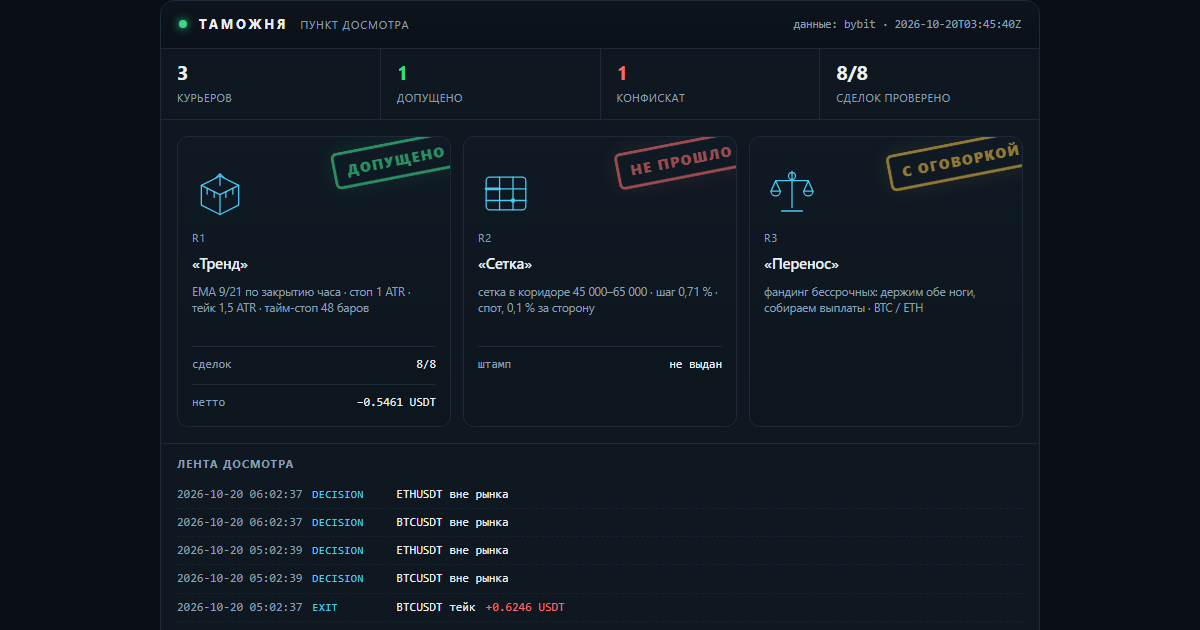
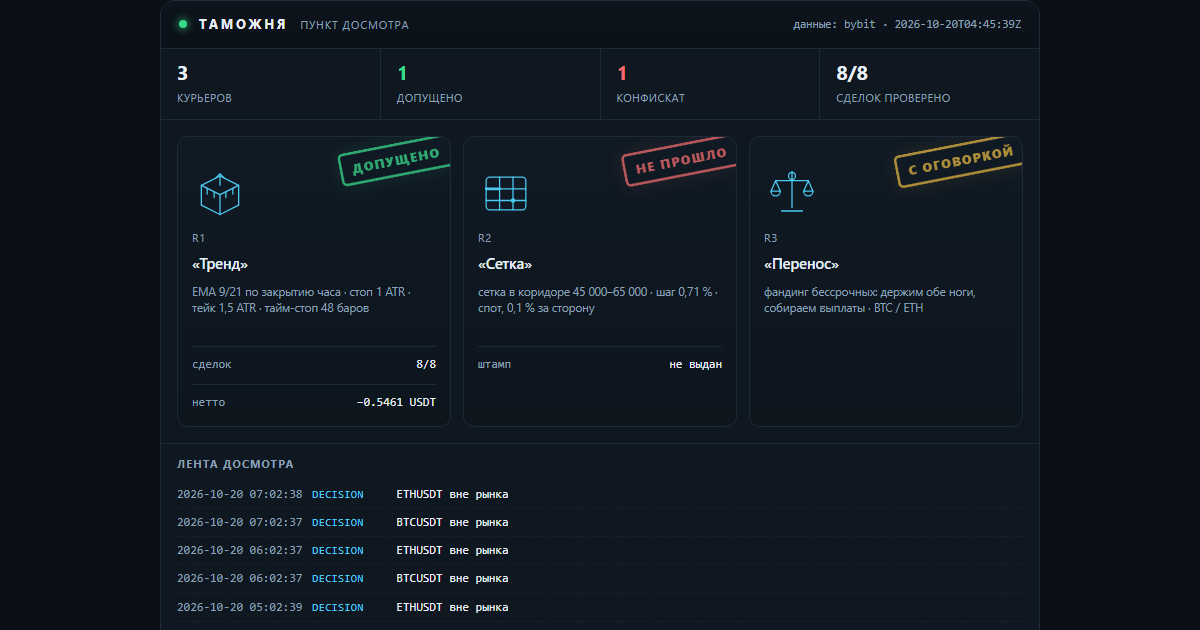
lab: таможня — свежие числа досмотра

diff --git a/docs/customs.html b/docs/customs.html
@@ -16,7 +16,7 @@
   <h1><a href="index.html">Gramwright Lab</a></h1>
   <p>Журнал проверки торговых гипотез: что проверяли, что вышло по факту, сколько съели издержки. Числа берутся из журнала стенда. Не инвестиционная рекомендация.</p>
 </header>
-<h1>Таможня</h1><p class="intro">Пункт досмотра заявленных результатов. Стратегии приезжают с грузом обещаний, и каждая проходит проверку по публичным данным биржи: цены существуют, комиссии по тарифу, нетто сходится. Что прошло — получает штамп. Что не прошло — в конфискат, с причиной. Штамп означает «записи подлинные», а не «стратегия прибыльна».</p><p><img src="img/customs.png" alt="Терминал досмотра: три курьера, штампы, лента событий" style="width:100%;height:auto;border:1px solid var(--line);border-radius:10px"></p><p class="c-note">Сверху — тот же терминал, что собирается из журналов: счётчики, эмблемы курьеров, штампы и лента последних событий. Ниже — то же самое текстом, чтобы читалось с телефона и индексировалось поиском.</p><article><h2>R1 «Тренд» <span class="verdict">— <span class="c-ok">допущено</span></span></h2><p><strong>Правило:</strong> EMA 9/21 по закрытию часа · стоп 1 ATR · тейк 1,5 ATR · тайм-стоп 48 баров</p><p><strong>Декларация:</strong> Заявлено до прогона: держать 30 сделок, лимит нотионала 10 % от счёта, стоп дня −1 %. Прибыль не заявлялась — это важно: курьер не обещал доход.</p><p><strong>Проверено по публичным свечам, без ключей:</strong> 8 из 8 сделок. Сумма нетто −0.5461 USDT.</p><ul class="c-chk"><li class="y">BTCUSDT: нетто −0.8746 USDT · комиссии 0.0901 · проверено · с поправкой</li><li class="y">BTCUSDT: нетто −0.5441 USDT · комиссии 0.0896 · проверено</li><li class="y">ETHUSDT: нетто −0.2253 USDT · комиссии 0.0266 · проверено</li><li class="y">ETHUSDT: нетто −0.1513 USDT · комиссии 0.0265 · проверено</li><li class="y">ETHUSDT: нетто +0.1984 USDT · комиссии 0.0262 · проверено</li><li class="y">ETHUSDT: нетто +0.1617 USDT · комиссии 0.0260 · проверено</li><li class="y">ETHUSDT: нетто +0.2645 USDT · комиссии 0.0263 · проверено</li><li class="y">BTCUSDT: нетто +0.6246 USDT · комиссии 0.0897 · проверено</li></ul><p class="tags">журнал sha256 95483d5ab74cd467… · проверяльщик verify-1</p><p class="c-note">Штамп означает: записи подлинные, а не что стратегия прибыльна. Курьер в минусе, и минус тоже стоит на штампе — иначе это была бы не проверка, а реклама.</p><p class="tags">источник: verify-report.json</p></article><article><h2>R2 «Сетка» <span class="verdict">— <span class="c-bad">не прошло</span></span></h2><p><strong>Правило:</strong> сетка в коридоре 45 000–65 000 · шаг 0,71 % · спот, 0,1 % за сторону</p><p><strong>Декларация:</strong> Заявлено: «44 % урожая уходит бирже в виде комиссий». Кроме того — перевес над простым владением монетой.</p><p><strong>Что сошлось:</strong></p><ul class="c-chk"><li class="y">сами числа пересчитаны и воспроизводятся: коридор 45–65k был активен 23 % всей истории и 28 % последних двух лет</li></ul><p><strong>Что не сошлось:</strong></p><ul class="c-chk"><li class="n">44 % не подтвердилось: при шаге 0,71 % и тарифе 0,1 % комиссия съедает 28,3 % шага. Чтобы получить 44 %, нужен шаг 0,45 % — это около 80 уровней, а не 50</li><li class="n">от урожая доля комиссий 85,5 % за всю историю и 49,6 % за последние два года — тоже не 44 %</li><li class="n">перевес над владением посчитан на тарифе 0,055 %: при нём +1,32 п. п., на розничном 0,1 % — −0,72 п. п. То есть перевес исчезает</li><li class="n">семилетний тест стартовал в сентябре 2019 при биткоине около 10 000 — ниже коридора. Он говорит, что фиксированный коридор не подходит для периода, а не что сетка отстаёт</li></ul><p class="tags">источник: lab_grid.py, пересчёт 17.10.2026</p></article><article><h2>R3 «Перенос» <span class="verdict">— <span class="c-warn">с оговоркой</span></span></h2><p><strong>Правило:</strong> фандинг бессрочных: держим обе ноги, собираем выплаты · BTC / ETH</p><p><strong>Декларация:</strong> Заявлено: около 11,9 % в год от выплат фандинга при просадке выплатной кривой меньше 2 %.</p><p><strong>Что сошлось:</strong></p><ul class="c-chk"><li class="y">выплаты взяты из публичной истории биржи, ключей не нужно: BTC — 7 190 выплат с 25.03.2020, ETH — 6 561 с 21.10.2020</li><li class="y">сумма сходится: +83,4 % и +83,2 % за 6,6 и 6,0 года — те самые ~11,9 % в год</li><li class="y">худшая просадка выплатной кривой: −1,65 % и −1,97 %</li></ul><p><strong>Что не сошлось:</strong></p><ul class="c-chk"><li class="n">оговорка 1: премию сжали — 2021 год дал +38,3 %, 2026 — +1,96 %. Прошлое не повторяется</li><li class="n">оговорка 2: вход-выход стоит около 0,31 %, капитала нужно 1,2 от нотионала, текущий базис −0,082 % против входа</li><li class="n">оговорка 3: риск площадки. История FTX в этой же таблице выглядела так же прилично</li></ul><p class="tags">источник: публичная история фандинга Bybit, замер 17.10.2026</p></article><div class="c-conf"><h3>Конфискат</h3><p><strong>«Сетка»: заявленные 44 % комиссий не подтвердились.</strong> Досмотр показал 28,3 % от шага и 85,5 % от урожая — цифра хуже заявленной по форме, но лучше по смыслу: сетку убивает не размер шага, а то, что урожай почти весь уходит в комиссии. Это и вышло в выпуск — с поправкой, а не с красивой цифрой.</p></div><p class="c-note">Пломба: <code>2026-10-20T03:45:40Z</code> · нотариус FreeTSA · Oct 20 03:45:40 2026 GMT · подпись подтверждена. Манифест скрепляет отчёт проверки, журнал сделок и декларации курьеров: подменишь любую цифру — пломба перестанет сходиться.</p><p class="c-note">Досмотр идёт по публичным минутным свечам и публичной истории фандинга — ключей у проверяющего нет, и он может повторить проверку сам.</p><p class="c-note">Контент образовательный, не является инвестиционной рекомендацией. Торговля связана с риском потери капитала.</p>
+<h1>Таможня</h1><p class="intro">Пункт досмотра заявленных результатов. Стратегии приезжают с грузом обещаний, и каждая проходит проверку по публичным данным биржи: цены существуют, комиссии по тарифу, нетто сходится. Что прошло — получает штамп. Что не прошло — в конфискат, с причиной. Штамп означает «записи подлинные», а не «стратегия прибыльна».</p><p><img src="img/customs.png" alt="Терминал досмотра: три курьера, штампы, лента событий" style="width:100%;height:auto;border:1px solid var(--line);border-radius:10px"></p><p class="c-note">Сверху — тот же терминал, что собирается из журналов: счётчики, эмблемы курьеров, штампы и лента последних событий. Ниже — то же самое текстом, чтобы читалось с телефона и индексировалось поиском.</p><article><h2>R1 «Тренд» <span class="verdict">— <span class="c-ok">допущено</span></span></h2><p><strong>Правило:</strong> EMA 9/21 по закрытию часа · стоп 1 ATR · тейк 1,5 ATR · тайм-стоп 48 баров</p><p><strong>Декларация:</strong> Заявлено до прогона: держать 30 сделок, лимит нотионала 10 % от счёта, стоп дня −1 %. Прибыль не заявлялась — это важно: курьер не обещал доход.</p><p><strong>Проверено по публичным свечам, без ключей:</strong> 8 из 8 сделок. Сумма нетто −0.5461 USDT.</p><ul class="c-chk"><li class="y">BTCUSDT: нетто −0.8746 USDT · комиссии 0.0901 · проверено · с поправкой</li><li class="y">BTCUSDT: нетто −0.5441 USDT · комиссии 0.0896 · проверено</li><li class="y">ETHUSDT: нетто −0.2253 USDT · комиссии 0.0266 · проверено</li><li class="y">ETHUSDT: нетто −0.1513 USDT · комиссии 0.0265 · проверено</li><li class="y">ETHUSDT: нетто +0.1984 USDT · комиссии 0.0262 · проверено</li><li class="y">ETHUSDT: нетто +0.1617 USDT · комиссии 0.0260 · проверено</li><li class="y">ETHUSDT: нетто +0.2645 USDT · комиссии 0.0263 · проверено</li><li class="y">BTCUSDT: нетто +0.6246 USDT · комиссии 0.0897 · проверено</li></ul><p class="tags">журнал sha256 7f6fc2cdc87a0812… · проверяльщик verify-1</p><p class="c-note">Штамп означает: записи подлинные, а не что стратегия прибыльна. Курьер в минусе, и минус тоже стоит на штампе — иначе это была бы не проверка, а реклама.</p><p class="tags">источник: verify-report.json</p></article><article><h2>R2 «Сетка» <span class="verdict">— <span class="c-bad">не прошло</span></span></h2><p><strong>Правило:</strong> сетка в коридоре 45 000–65 000 · шаг 0,71 % · спот, 0,1 % за сторону</p><p><strong>Декларация:</strong> Заявлено: «44 % урожая уходит бирже в виде комиссий». Кроме того — перевес над простым владением монетой.</p><p><strong>Что сошлось:</strong></p><ul class="c-chk"><li class="y">сами числа пересчитаны и воспроизводятся: коридор 45–65k был активен 23 % всей истории и 28 % последних двух лет</li></ul><p><strong>Что не сошлось:</strong></p><ul class="c-chk"><li class="n">44 % не подтвердилось: при шаге 0,71 % и тарифе 0,1 % комиссия съедает 28,3 % шага. Чтобы получить 44 %, нужен шаг 0,45 % — это около 80 уровней, а не 50</li><li class="n">от урожая доля комиссий 85,5 % за всю историю и 49,6 % за последние два года — тоже не 44 %</li><li class="n">перевес над владением посчитан на тарифе 0,055 %: при нём +1,32 п. п., на розничном 0,1 % — −0,72 п. п. То есть перевес исчезает</li><li class="n">семилетний тест стартовал в сентябре 2019 при биткоине около 10 000 — ниже коридора. Он говорит, что фиксированный коридор не подходит для периода, а не что сетка отстаёт</li></ul><p class="tags">источник: lab_grid.py, пересчёт 17.10.2026</p></article><article><h2>R3 «Перенос» <span class="verdict">— <span class="c-warn">с оговоркой</span></span></h2><p><strong>Правило:</strong> фандинг бессрочных: держим обе ноги, собираем выплаты · BTC / ETH</p><p><strong>Декларация:</strong> Заявлено: около 11,9 % в год от выплат фандинга при просадке выплатной кривой меньше 2 %.</p><p><strong>Что сошлось:</strong></p><ul class="c-chk"><li class="y">выплаты взяты из публичной истории биржи, ключей не нужно: BTC — 7 190 выплат с 25.03.2020, ETH — 6 561 с 21.10.2020</li><li class="y">сумма сходится: +83,4 % и +83,2 % за 6,6 и 6,0 года — те самые ~11,9 % в год</li><li class="y">худшая просадка выплатной кривой: −1,65 % и −1,97 %</li></ul><p><strong>Что не сошлось:</strong></p><ul class="c-chk"><li class="n">оговорка 1: премию сжали — 2021 год дал +38,3 %, 2026 — +1,96 %. Прошлое не повторяется</li><li class="n">оговорка 2: вход-выход стоит около 0,31 %, капитала нужно 1,2 от нотионала, текущий базис −0,082 % против входа</li><li class="n">оговорка 3: риск площадки. История FTX в этой же таблице выглядела так же прилично</li></ul><p class="tags">источник: публичная история фандинга Bybit, замер 17.10.2026</p></article><div class="c-conf"><h3>Конфискат</h3><p><strong>«Сетка»: заявленные 44 % комиссий не подтвердились.</strong> Досмотр показал 28,3 % от шага и 85,5 % от урожая — цифра хуже заявленной по форме, но лучше по смыслу: сетку убивает не размер шага, а то, что урожай почти весь уходит в комиссии. Это и вышло в выпуск — с поправкой, а не с красивой цифрой.</p></div><p class="c-note">Пломба: <code>2026-10-20T04:45:39Z</code> · нотариус FreeTSA · Oct 20 04:45:39 2026 GMT · подпись подтверждена. Манифест скрепляет отчёт проверки, журнал сделок и декларации курьеров: подменишь любую цифру — пломба перестанет сходиться.</p><p class="c-note">Досмотр идёт по публичным минутным свечам и публичной истории фандинга — ключей у проверяющего нет, и он может повторить проверку сам.</p><p class="c-note">Контент образовательный, не является инвестиционной рекомендацией. Торговля связана с риском потери капитала.</p>
 <footer class="site">
   Код стенда и аудитора: <a href="https://github.com/XSlaidx/truth-engine">XSlaidx/truth-engine</a>
   &middot; <a href="graveyard.html">кладбище правил</a>
